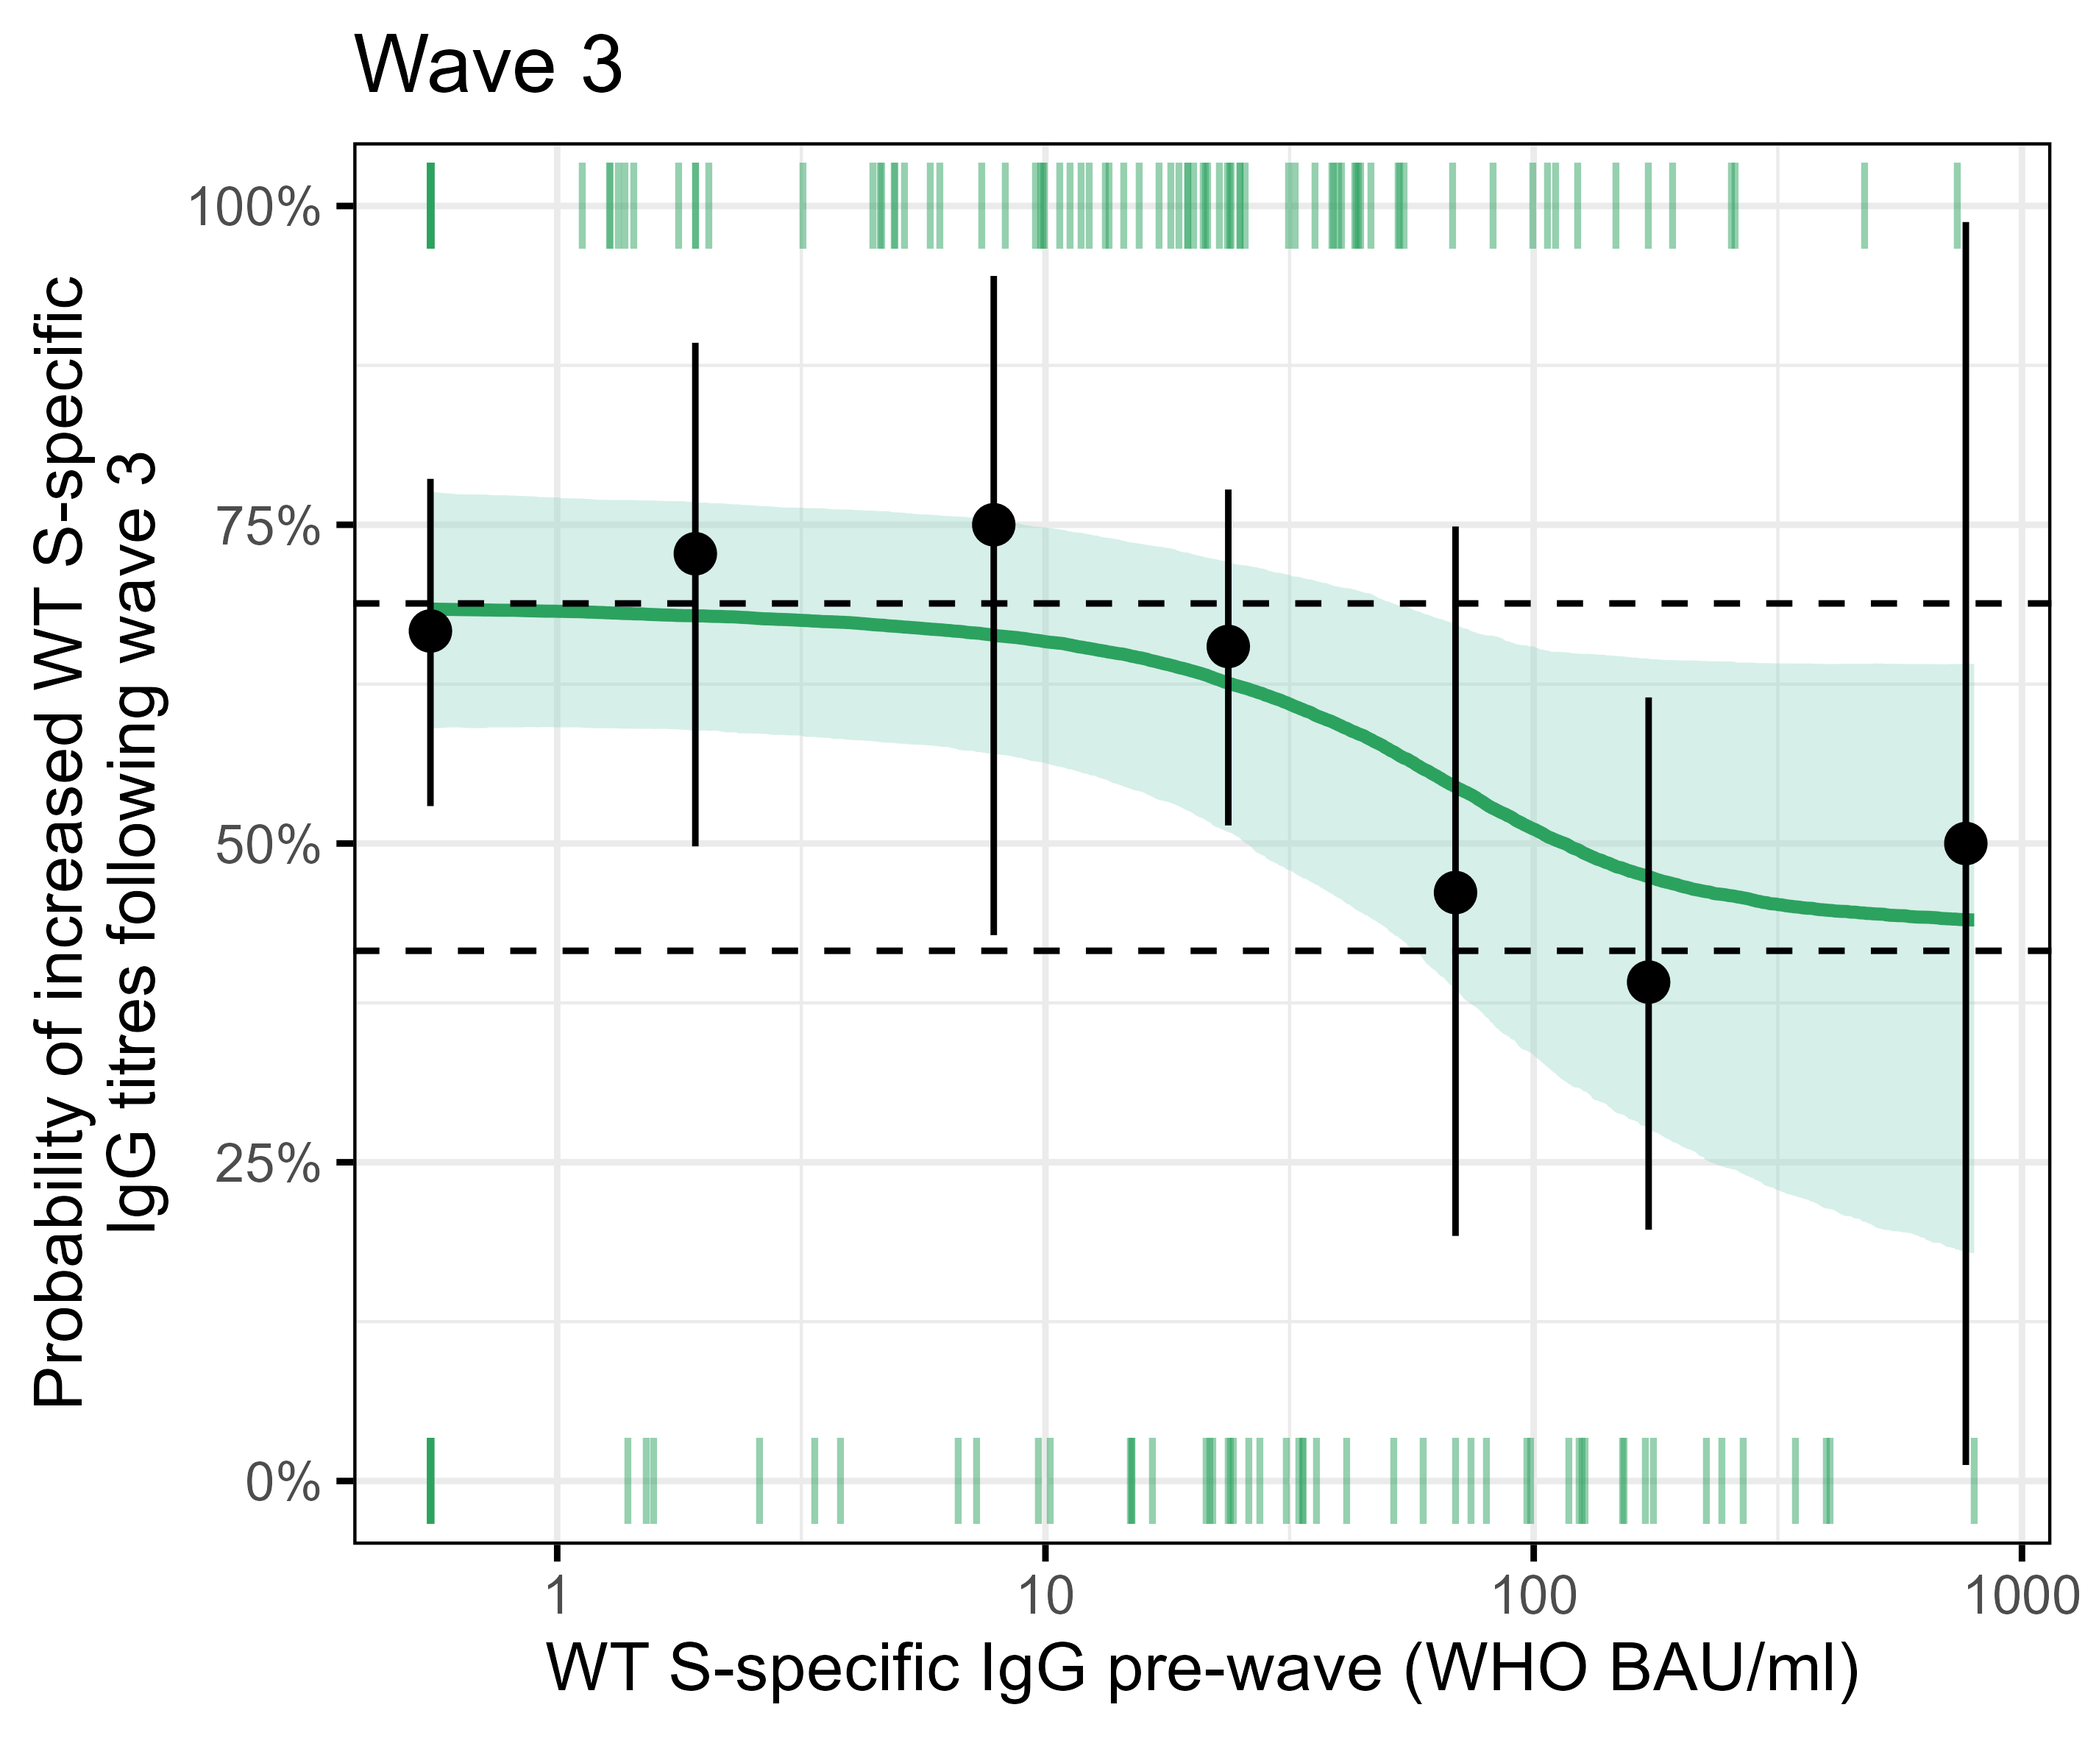
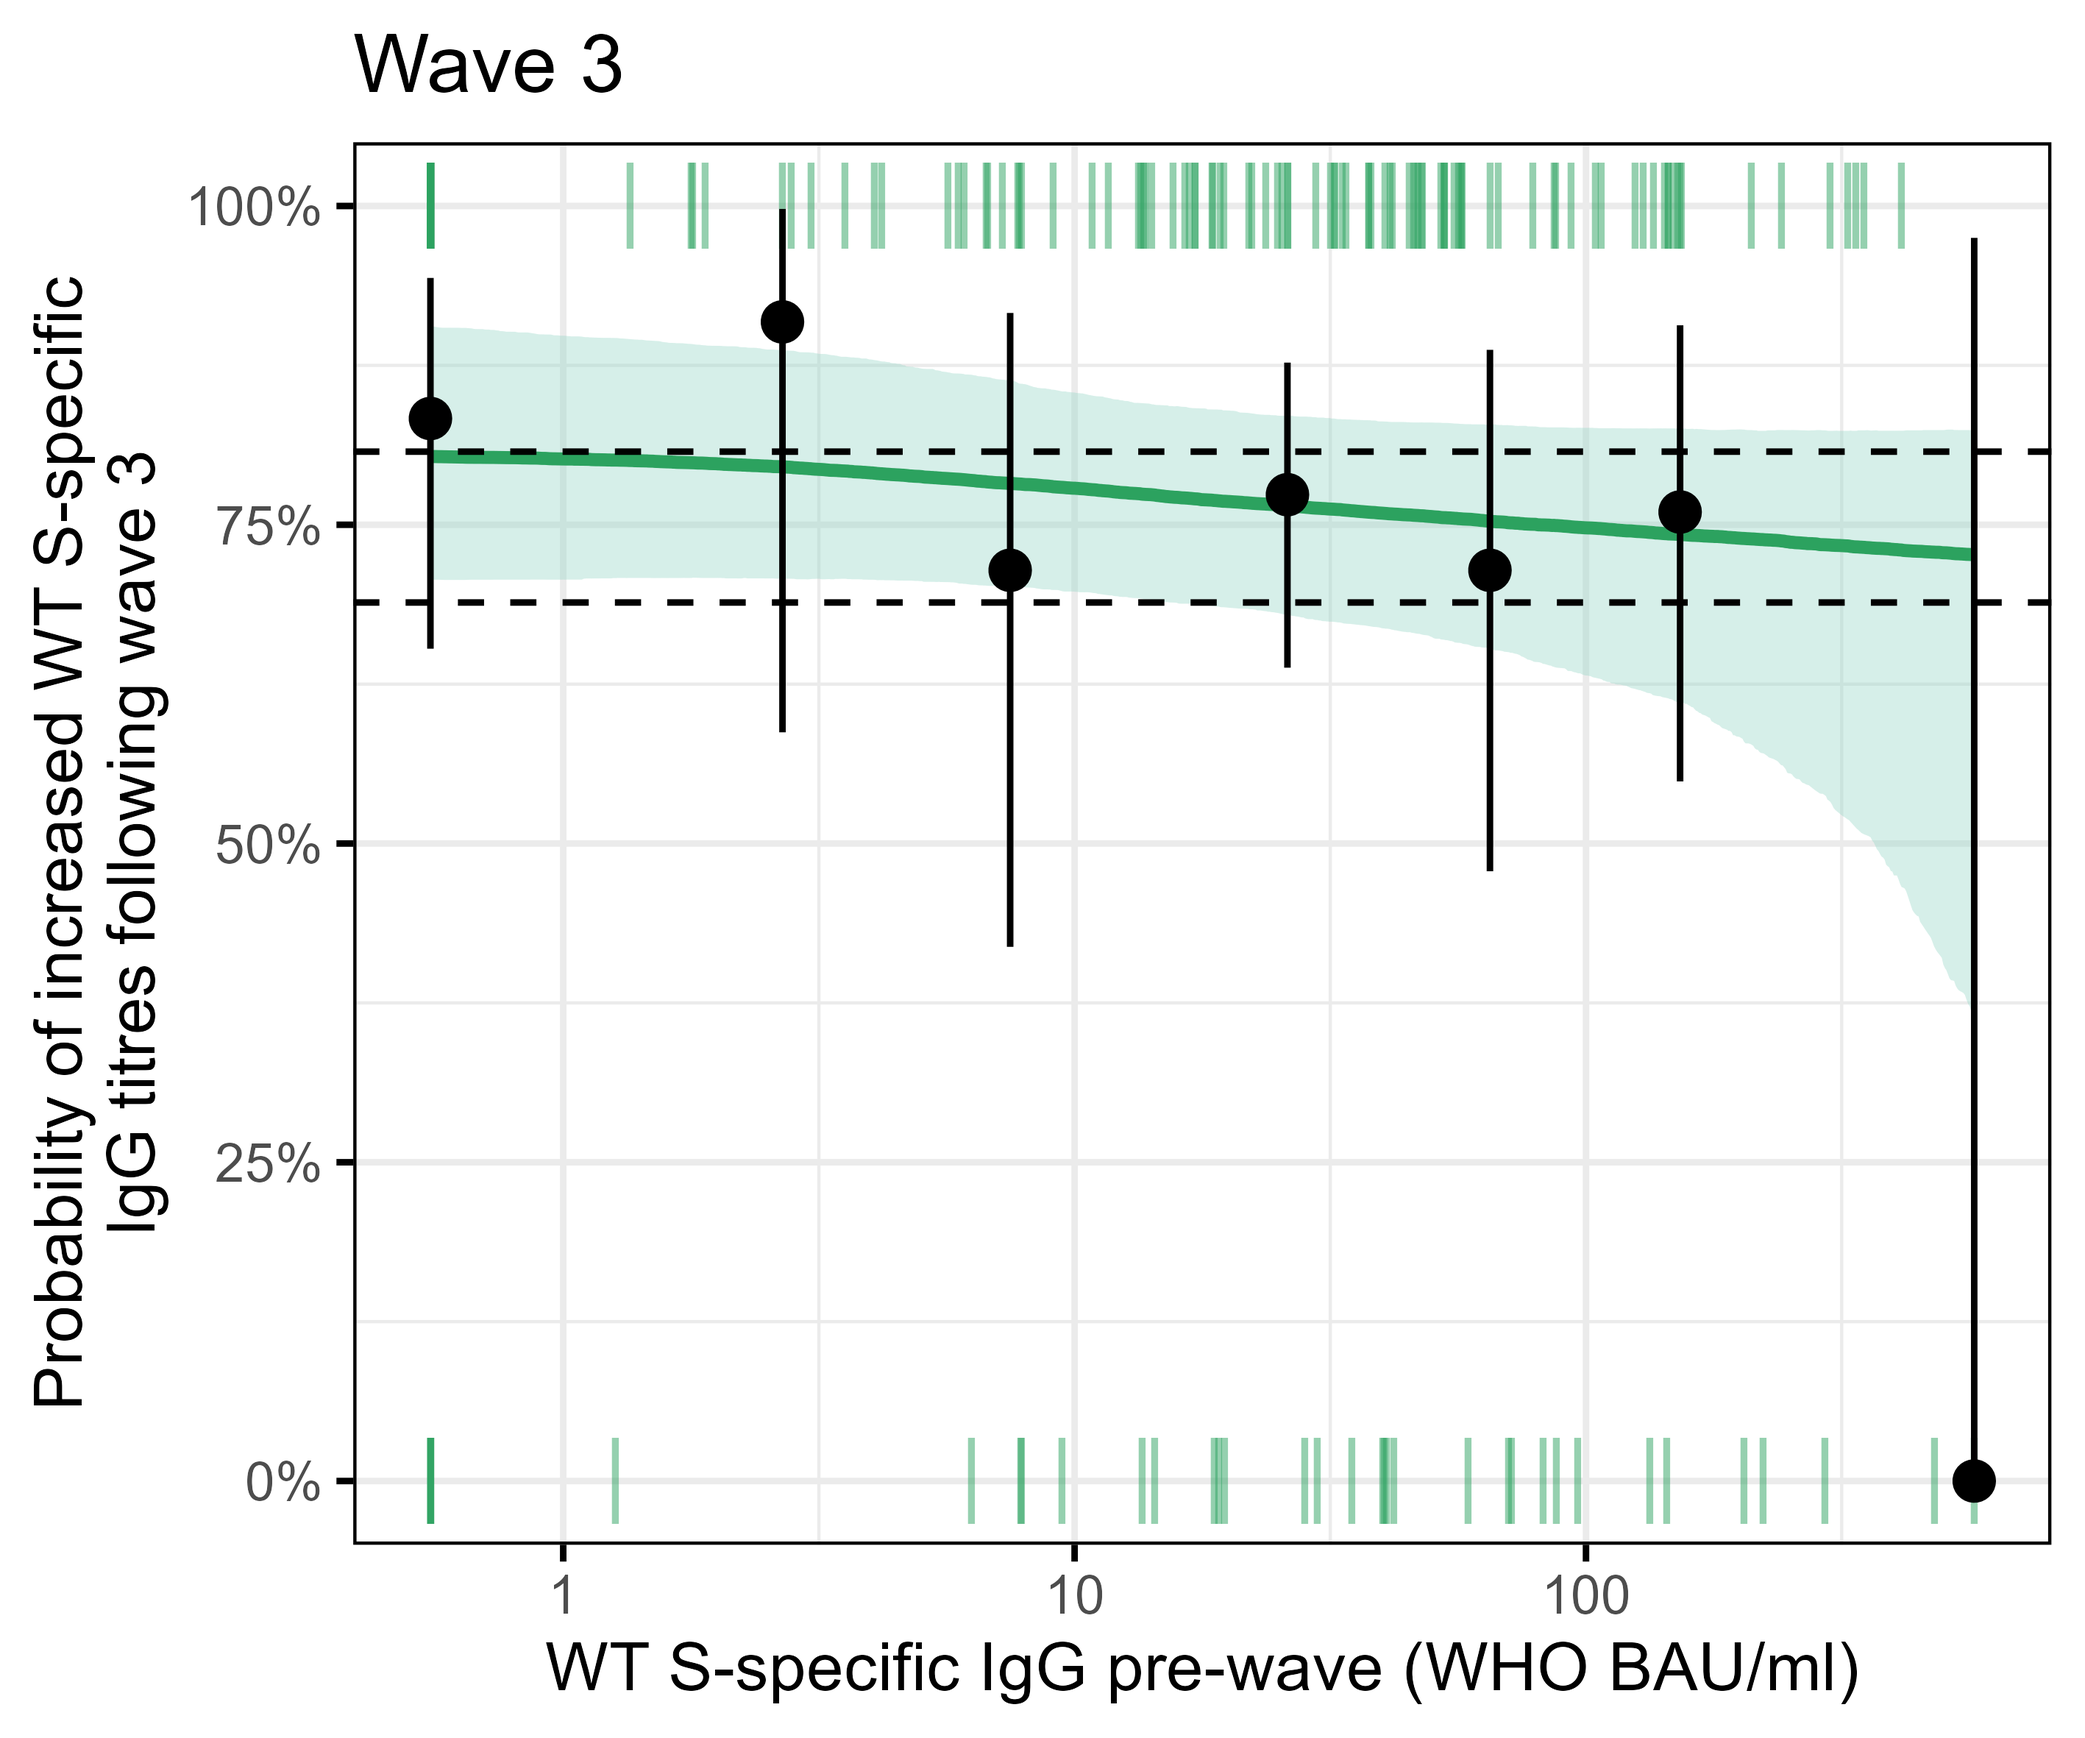
.01 threshold and vaccinated analysis

diff --git a/results/wt_wave_results.html b/results/wt_wave_results.html
@@ -16,31 +16,31 @@
 <td style='text-align: center;'>2</td>
 <td style='text-align: center;'>WT</td>
 <td style='text-align: center;'>WT</td>
-<td style='text-align: center;'>47.5 (38.3, 65.8)</td>
-<td style='text-align: center;'>17.1 (2.5, 31.2)</td>
-<td style='text-align: center;'>16.8 (4.2, 73.9)</td>
-<td style='text-align: center;'>34.1 (8.6, 495.5)</td>
-<td style='text-align: center;'>32.9 (8.3, 446.1)</td>
+<td style='text-align: center;'>61.6 (50.1, 85.8)</td>
+<td style='text-align: center;'>16.0 (2.0, 27.9)</td>
+<td style='text-align: center;'>8.9 (3.0, 29.1)</td>
+<td style='text-align: center;'>19.8 (5.8, 109.6)</td>
+<td style='text-align: center;'>13.6 (4.5, 52.6)</td>
 </tr>
 <tr>
 <td style='text-align: center;'>3</td>
 <td style='text-align: center;'>WT</td>
 <td style='text-align: center;'>WT</td>
-<td style='text-align: center;'>68.8 (59.1, 85.6)</td>
-<td style='text-align: center;'>41.6 (9.2, 64.3)</td>
-<td style='text-align: center;'>54.2 (10.7, >1000)</td>
-<td style='text-align: center;'>98.0 (30.1, >1000)</td>
-<td style='text-align: center;'>237.4 (69.6, >1000)</td>
+<td style='text-align: center;'>80.7 (70.3, 95.4)</td>
+<td style='text-align: center;'>68.9 (6.8, 89.3)</td>
+<td style='text-align: center;'>44.2 (1.2, >500)</td>
+<td style='text-align: center;'>143.8 (1.8, >500)</td>
+<td style='text-align: center;'>4785.1 (323.1, >500)</td>
 </tr>
 <tr>
 <td style='border-bottom: 2px solid grey; text-align: center;'>4</td>
 <td style='border-bottom: 2px solid grey; text-align: center;'>WT</td>
 <td style='border-bottom: 2px solid grey; text-align: center;'>WT</td>
-<td style='border-bottom: 2px solid grey; text-align: center;'>84.2 (78.0, 89.8)</td>
-<td style='border-bottom: 2px solid grey; text-align: center;'>22.1 (1.4, 56.2)</td>
-<td style='border-bottom: 2px solid grey; text-align: center;'>906.9 (521.9, 2542.2)</td>
-<td style='border-bottom: 2px solid grey; text-align: center;'>1377.8 (779.3, >4500)</td>
-<td style='border-bottom: 2px solid grey; text-align: center;'>1150.2 (661.3, >4500)</td>
+<td style='border-bottom: 2px solid grey; text-align: center;'>97.3 (91.1, 99.8)</td>
+<td style='border-bottom: 2px solid grey; text-align: center;'>12.1 (4.6, 22.0)</td>
+<td style='border-bottom: 2px solid grey; text-align: center;'>463.2 (305.6, 665.6)</td>
+<td style='border-bottom: 2px solid grey; text-align: center;'>757.3 (480.8, 1302.8)</td>
+<td style='border-bottom: 2px solid grey; text-align: center;'>509.3 (339.1, 752.3)</td>
 </tr>
 </tbody>
 </table>
